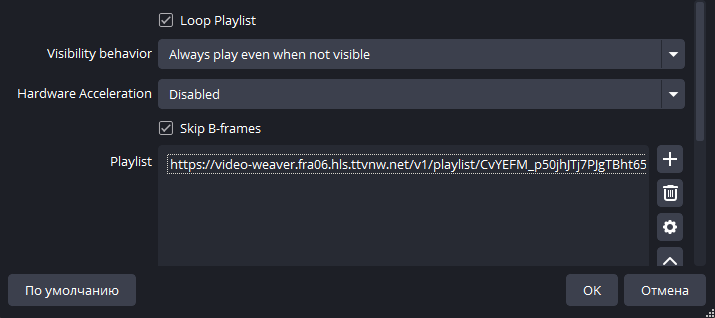
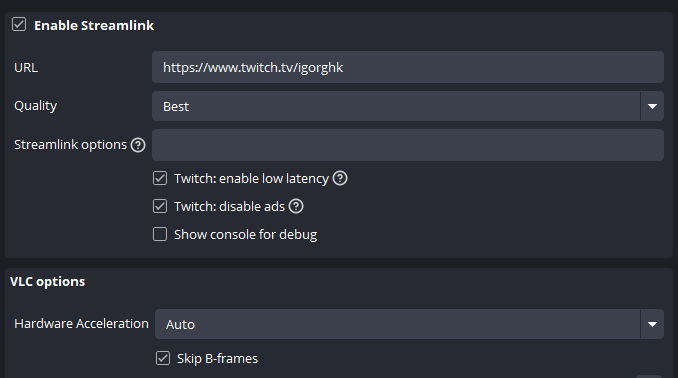
Update: readme

diff --git a/readme.md b/readme.md
@@ -2,23 +2,38 @@
 
 # obs-vlc-video-plugin
 
-Модифицированный VLC-плагин с поддержкой аппаратного ускорения для OBS Studio.
+Модифицированный VLC-плагин с поддержкой [Streamlink](https://streamlink.github.io) и аппаратного ускорения для OBS Studio.
 
 ## Возможности
 
-- Для аппаратного ускорения доступны опции: автоматически, dxva2, d3d11va, отключено ([avcodec-hw](https://wiki.videolan.org/Documentation:Modules/avcodec/)).
-- Для снижения нагрузки на процессор активируйте пропуск [B-кадров](https://wiki.videolan.org/Frame/) ([avcodec-skip-frame](https://wiki.videolan.org/Documentation:Modules/avcodec/))
+- Запуск видеопотока по ссылке на канал через локальный сервер от Streamlink с дополнительными параметрами. Не только Twitch.
+- Поддержка аппаратного ускорения (перенос части нагрузки на видеокарту).
 - Настройка выведена в интерфейс плагина.
 
-<p align="center"><img width="70%" style="margin: 0" src="docs/assets/vlc-video-plugin-properties.png"></img></p>
+<p align="center"><img width="85%" style="margin: 0" src="docs/assets/vlc-video-plugin-properties.png"></img></p>
 
 ## Установка
 
 > Перед установкой сохраните резервную копию файлов `vlc-video.dll`, `vlc-video.pdb`. Путь по умолчанию `C:\Program Files\obs-studio\obs-plugins\64bit`.
 
-1. Скачайте архив в разделе [релизов](https://github.com/Chimildic/obs-vlc-video-plugin/releases).
-2. Распакуйте содержание архива в корень папки OBS Studio. Путь по умолчанию `C:\Program Files\obs-studio`.
+1. [Установите Streamlink](https://streamlink.github.io/install.html).
+2. Скачайте архив в разделе [релизов](https://github.com/Chimildic/obs-vlc-video-plugin/releases).
+3. Распакуйте содержание архива в корень папки OBS Studio. Путь по умолчанию `C:\Program Files\obs-studio`.
+
+## Streamlink
+
+Streamlink позволяет получить видеопоток через ссылку на канал или видео. Например, указав ссылку вида `https://www.twitch.tv/igorghk` плагин создаст отдельный процесс, в котором запустит локальный сервер. Также есть возможность использовать дополнительные параметры: низкая задержка, пропуск рекламы, личный токен и прочее. 
+
+Используйте поле `Параметры Streamlink` для более тонкой настройки. Каждый параметр начинается с `--` и разделяется пробелом. К примеру `--hls-live-edge 1 --twitch-disable-ads`. Подробнее в [документации Streamlink](https://streamlink.github.io/cli.html).
+
+## libVLC
+
+libVLC - библиотека, которую использует плагин для связи с VLC плеером. Её также можно настравить через поле `Параметры VLC`. Их перечень в [документации](https://wiki.videolan.org/VLC_command-line_help). В частности [параметры для аппаратного ускорения](https://wiki.videolan.org/Documentation:Modules/avcodec/).
+
+Каждый параметр имеет вид `:key=value` и разделяется пробелом. Например `:avcodec-skip-frame=1 :avcodec-hw=any`.
 
 ## Сборка
 
-У плагина много внешних зависимостей, которых нет в этом репозитории. Для самостоятельной сборки поместите модифицированный код в папку [vlc-plugin](https://github.com/obsproject/obs-studio/tree/master/plugins/vlc-video) из репозитория OBS Studio.
+У плагина много внешних зависимостей, которых нет в этом репозитории. Для самостоятельной сборки `.dll` файла поместите модифицированный код в папку [vlc-video](https://github.com/obsproject/obs-studio/tree/master/plugins/vlc-video) из репозитория OBS Studio.
+
+> Функция `get_free_port` требует добавления зависимости `Ws2_32.lib`. Путь для Visual Studio: `Свойства проекта > Компоновщик > Ввод > Дополнительные зависимости`.

diff --git a/docs/readme-en.md b/docs/readme-en.md
@@ -1,22 +1,37 @@
 # obs-vlc-video-plugin
 
-Modified VLC-plugin with hardware acceleration support for OBS Studio.
+Modified VLC-plugin with [Streamlink](https://streamlink.github.io) and hardware acceleration support for OBS Studio.
 
 ## Features
 
-- Options for hardware acceleration: auto, dxva2, d3d11va, none ([avcodec-hw](https://wiki.videolan.org/Documentation:Modules/avcodec/)).
-- Enable [B-frames](https://wiki.videolan.org/Frame/) skip option to reduce CPU load ([avcodec-skip-frame](https://wiki.videolan.org/Documentation:Modules/avcodec/))
-- UI
+- Launch video stream via link to channel by local server from Streamline with additional parameters. Twitch and more.
+- Hardware acceleration support (move part of the load to the graphics card).
+- Custom UI
 
-<p align="center"><img width="70%" style="margin: 0" src="assets/vlc-video-plugin-properties-en.png"></img></p>
+<p align="center"><img width="85%" style="margin: 0" src="assets/vlc-video-plugin-properties-en.png"></img></p>
 
 ## Install
 
 > Save backup of the files before install: `vlc-video.dll`, `vlc-video.pdb`. Default path `C:\Program Files\obs-studio\obs-plugins\64bit`.
 
-1. Download archive in [releases](https://github.com/Chimildic/obs-vlc-video-plugin/releases).
-2. Unpack archive to root folder of OBS Studio. Default path `C:\Program Files\obs-studio`.
+1. [Install Streamlink](https://streamlink.github.io/install.html).
+2. Download archive in [releases](https://github.com/Chimildic/obs-vlc-video-plugin/releases).
+3. Unpack archive to root folder of OBS Studio. Default path `C:\Program Files\obs-studio`.
+
+## Streamlink
+
+Streamlink allows to receive a video stream via link to channel. For example, by link like `https://www.twitch.tv/igorghk` the plugin will create a new process in which to run the local server. It is also possible to use additional parameters: low latency, skip twitch ads, personal token and more.
+
+Use the field `Streamlink options` to fine-tuning. Each parameter starts with `--` and is separated by space. For example `--hls-live-edge 1 --twitch-disable-ads`. See [Streamlink documentation](https://streamlink.github.io/cli.html).
+
+## libVLC
+
+libVLC is library that the plugin uses to communicate with the VLC player. It can also be configured via the `VLC options` field. Their list is in the [documentation](https://wiki.videolan.org/VLC_command-line_help). In particular [parameters for hardware acceleration](https://wiki.videolan.org/Documentation:Modules/avcodec/).
+
+The each option looks like `:key=value` and is separated by space `:avcodec-skip-frame=1 :avcodec-hw=any`.
 
 ## Build
 
-The plugin has many dependencies that not provided here. In order to build it youself, place modified files to [vlc-plugin](https://github.com/obsproject/obs-studio/tree/master/plugins/vlc-video) folder from OBS Studio repository.
+The plugin has many dependencies that not provided here. In order to build `.dll` youself, place modified files to [vlc-video](https://github.com/obsproject/obs-studio/tree/master/plugins/vlc-video) folder from OBS Studio repository.
+
+> The `get_free_port` function requires `Ws2_32.lib` dependency. The path for Visual Studio: `Project Properties > Linker > Input > Additional Dependencies`.
